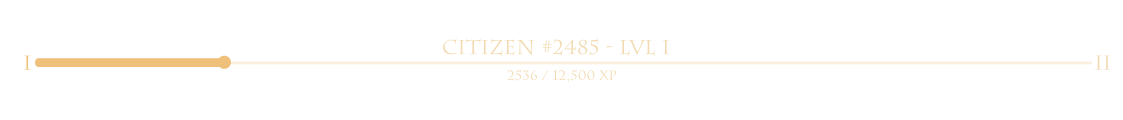
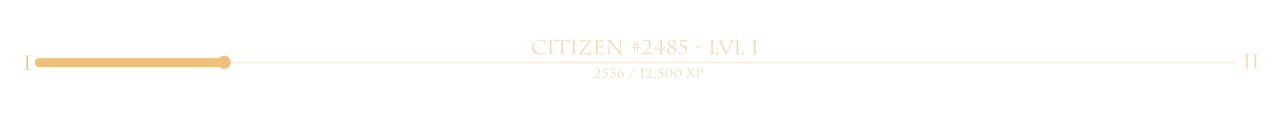
full expbar with button on bottom

Changed region(s): [[0.1558, 0.45, 0.9973, 0.675], [0.374, 0.325, 0.5922, 0.45], [0.0, 0.45, 0.0312, 0.575]]

diff --git a/src/App.js b/src/App.js
@@ -897,27 +897,8 @@ function App() {
       }
 {isConnected ? (
   <Row>
-    <Col className="col-8">
+    <Col className="col-12">
     <img src={citizen_expbar}/>
-    </Col>
-    <Col className="col-4">
-    <div className="readyButton" style={{float: "right", clear: "right"}}>
-              <Button
-                disabled={!isConnected}
-                variant="success"
-                style={{
-                float: "right",
-                marginTop: "20px",
-                marginRight: "15px",
-                width: "150px",
-                height: "120px",
-                fontSize: "16px",
-                backgroundColor: "#eec07a" }}
-                onClick={() => {
-                  setLgShow(true); }}  >
-                  <p style={{ color: "#25272E", whiteSpace: "pre-wrap" }}> Enter the Arena! </p>
-              </Button>  
-            </div> 
             <Modal
               size="lg"
               show={lgShow}
@@ -980,6 +961,26 @@ function App() {
 
         {isConnected && !noLoadout ? (
           <div>
+            <div className="readyButton" style={{float: "right", clear: "right"}}>
+              <Button
+                disabled={!isConnected}
+                variant="success"
+                style={{
+                float: "right",
+                marginTop: "20px",
+                marginRight: "15px",
+                width: "150px",
+                height: "90px",
+                fontSize: "16px",
+                backgroundColor: "#eec07a" }}
+                onClick={() => {
+                  setLgShow(true); }}  >
+                  <p style={{ color: "#25272E", whiteSpace: "pre-wrap" }}> Enter the Arena! </p>
+              </Button>  
+            </div>
+            <div style={{float: "right",  clear: "right"}}>
+              <img src={onchaingear}/> 
+            </div> 
             <div style={{float: "right", clear: "right"}}>
               <SearchBar OnInputSubmit={OnInputSubmit} />
             </div>
@@ -1060,9 +1061,6 @@ function App() {
                     </Row>
                   )
                 )}
-            </div>
-            <div style={{float: "right",  clear: "right"}}>
-              <img src={onchaingear}/> 
             </div>
           </div>
         ) : (
